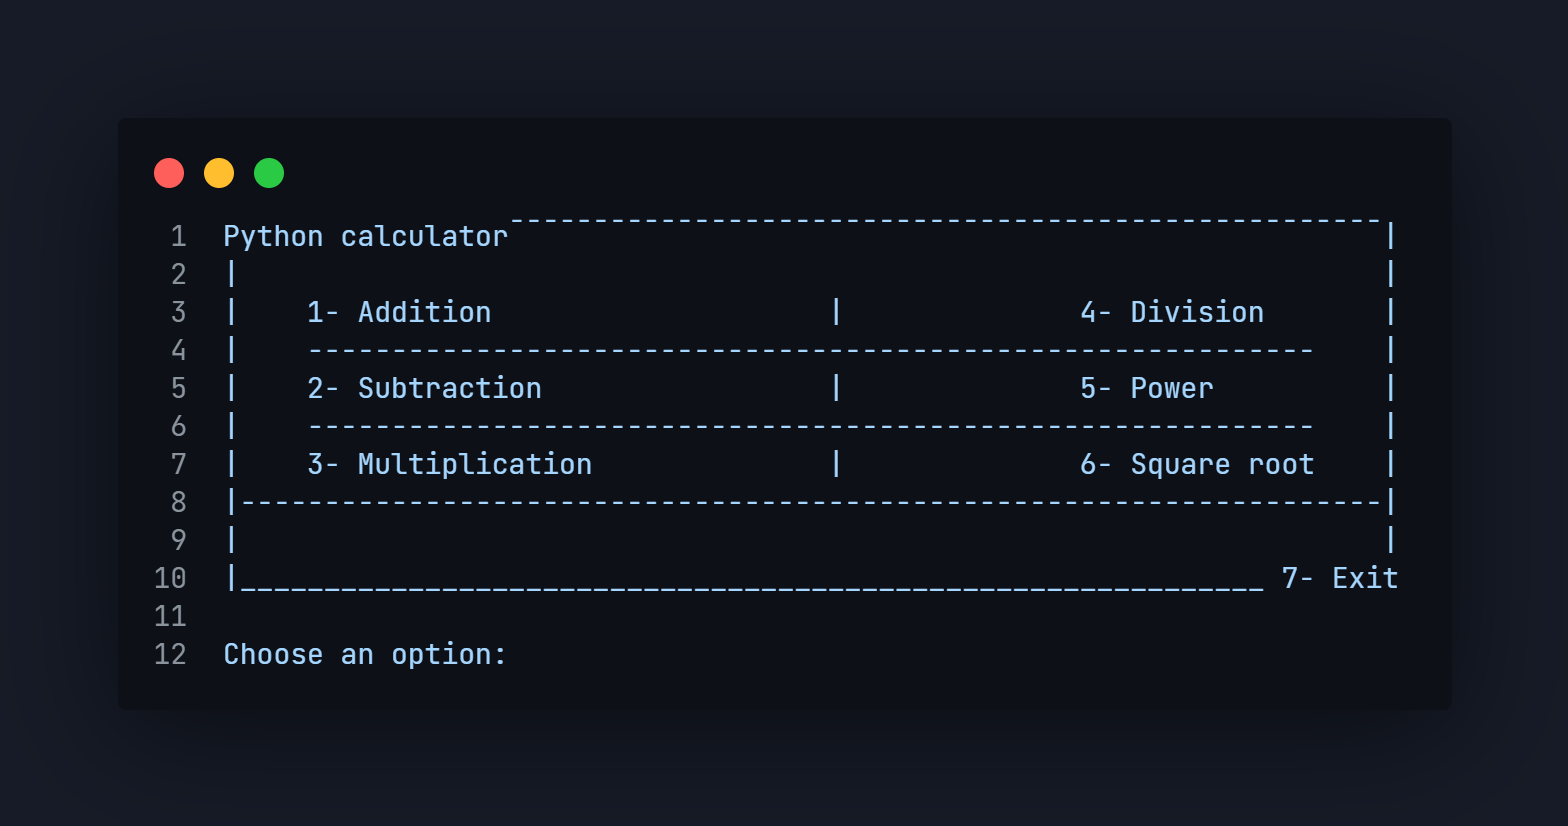
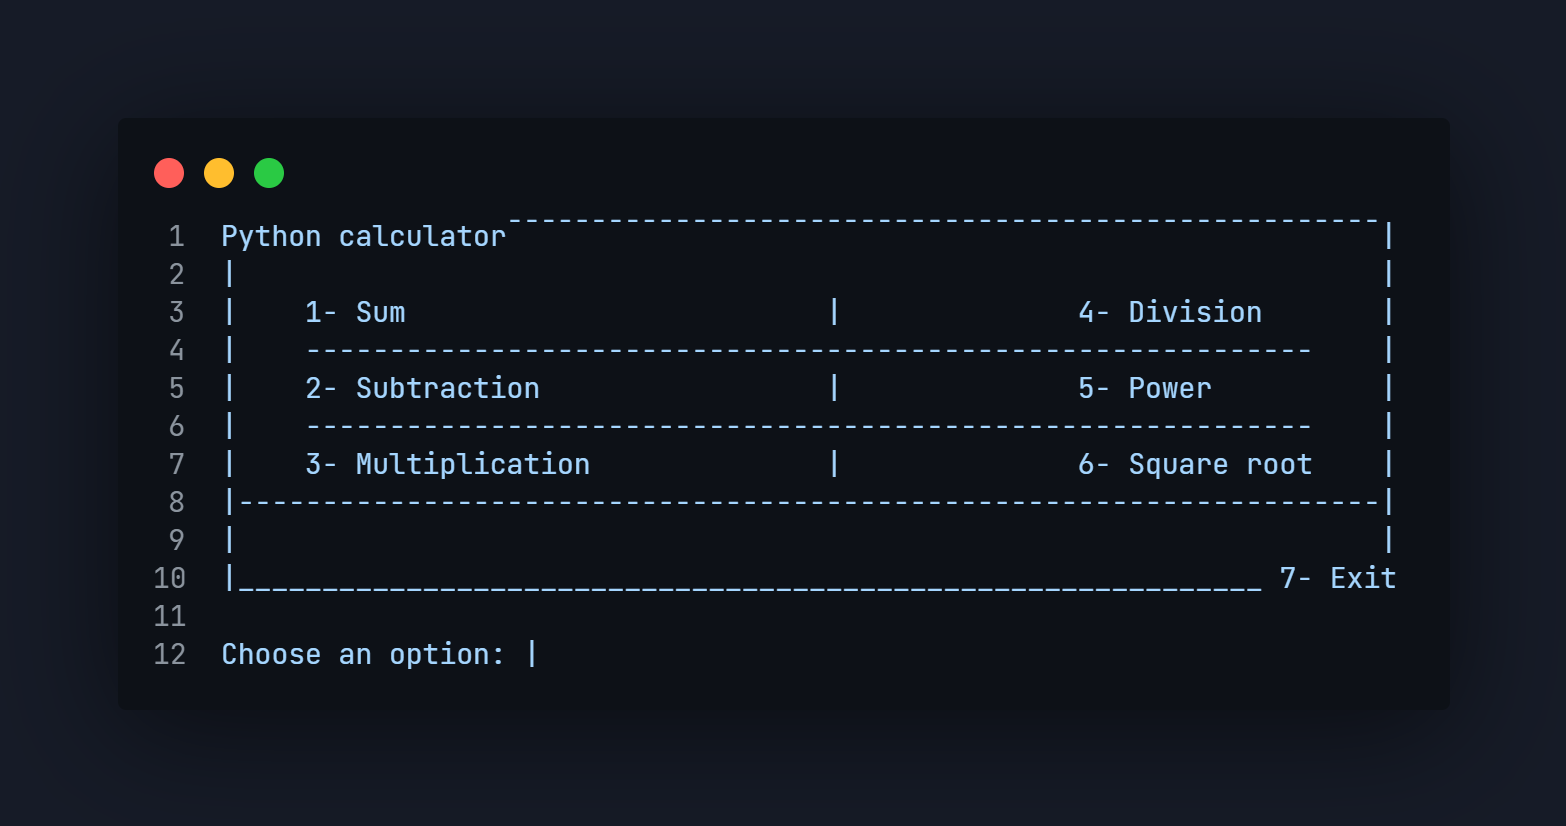
Change items

diff --git a/calc.py b/calc.py
@@ -6,7 +6,7 @@ def main():
     menu = """
 Python calculator¯¯¯¯¯¯¯¯¯¯¯¯¯¯¯¯¯¯¯¯¯¯¯¯¯¯¯¯¯¯¯¯¯¯¯¯¯¯¯¯¯¯¯¯¯¯¯¯¯¯¯¯|
 |                                                                    |
-|    1- Addition                    |              4- Division       |
+|    1- Sum                         |              4- Division       |
 |    ------------------------------------------------------------    |
 |    2- Subtraction                 |              5- Power          |
 |    ------------------------------------------------------------    |

diff --git a/README.md b/README.md
@@ -44,7 +44,7 @@ python calc.py
 
 Python calculator¯¯¯¯¯¯¯¯¯¯¯¯¯¯¯¯¯¯¯¯¯¯¯¯¯¯¯¯¯¯¯¯¯¯¯¯¯¯¯¯¯¯¯¯¯¯¯¯¯¯¯¯|
 |                                                                    |
-|    1- Addition                    |              4- Division       |
+|    1- Sum                         |              4- Division       |
 |    ------------------------------------------------------------    |
 |    2- Subtraction                 |              5- Power          |
 |    ------------------------------------------------------------    |
